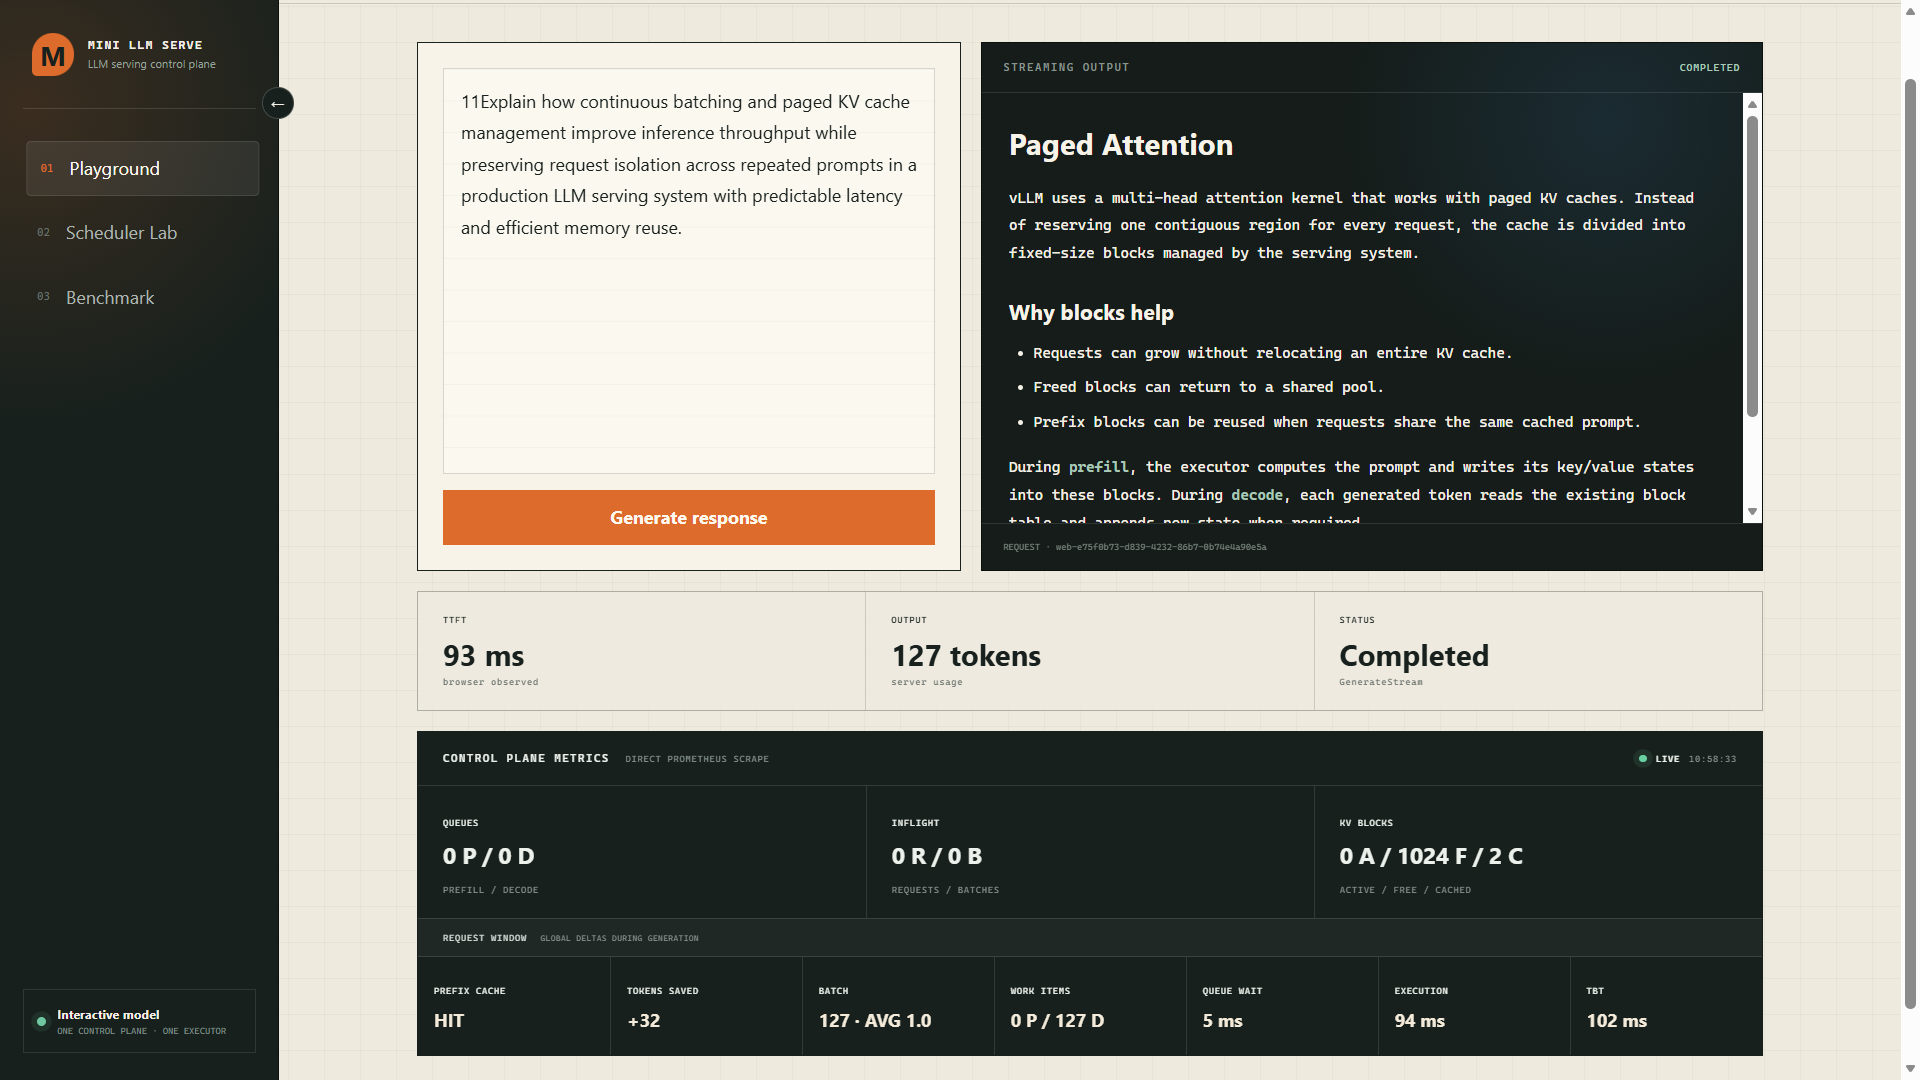
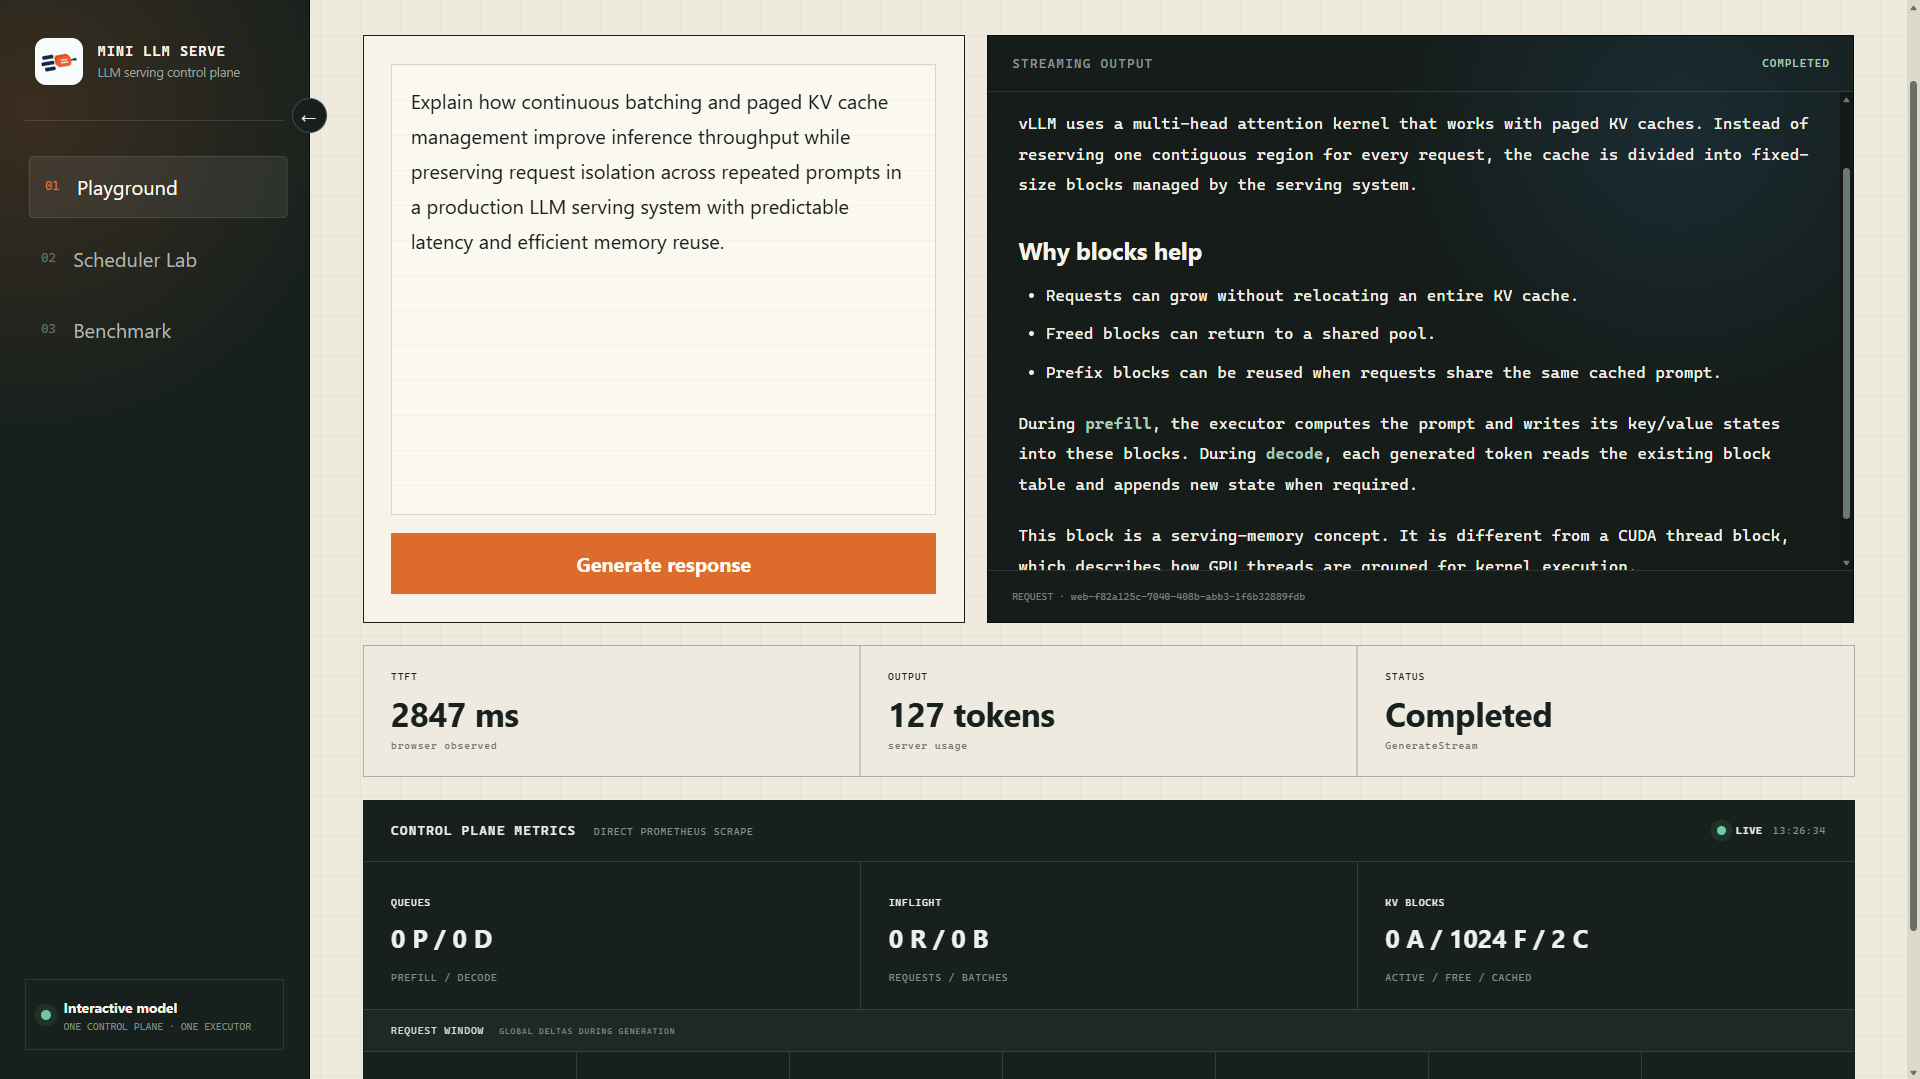
feat(stage4): update readme

diff --git a/web/src/styles/global.css b/web/src/styles/global.css
@@ -28,6 +28,29 @@
   box-sizing: border-box;
 }
 
+html {
+  scrollbar-color: rgba(61, 72, 67, 0.72) #ddd8ca;
+  scrollbar-width: thin;
+}
+
+html::-webkit-scrollbar {
+  width: 10px;
+}
+
+html::-webkit-scrollbar-track {
+  background: #ddd8ca;
+}
+
+html::-webkit-scrollbar-thumb {
+  background: rgba(61, 72, 67, 0.72);
+  border: 2px solid #ddd8ca;
+  border-radius: 999px;
+}
+
+html::-webkit-scrollbar-thumb:hover {
+  background: #28332f;
+}
+
 body {
   margin: 0;
   min-width: 320px;
@@ -148,14 +171,8 @@ button {
 .brand-mark {
   width: 38px;
   height: 38px;
-  display: grid;
-  place-items: center;
-  font-family: var(--font-display);
-  font-size: 24px;
-  font-weight: 650;
-  color: #17201d;
-  background: var(--orange);
-  border-radius: 50% 50% 50% 12%;
+  flex: 0 0 auto;
+  border-radius: 9px;
 }
 
 .brand strong,
@@ -647,6 +664,26 @@ h2 {
   padding: 28px 24px;
   overflow-y: auto;
   overflow-wrap: anywhere;
+  scrollbar-color: #6c7973 #121916;
+  scrollbar-width: thin;
+}
+
+.response-body::-webkit-scrollbar {
+  width: 9px;
+}
+
+.response-body::-webkit-scrollbar-track {
+  background: #121916;
+}
+
+.response-body::-webkit-scrollbar-thumb {
+  background: #6c7973;
+  border: 2px solid #121916;
+  border-radius: 999px;
+}
+
+.response-body::-webkit-scrollbar-thumb:hover {
+  background: #9bad9f;
 }
 
 .response-body {
@@ -718,6 +755,8 @@ h2 {
   overflow-x: auto;
   background: #0d1311;
   border: 1px solid rgba(255, 255, 255, 0.1);
+  scrollbar-color: #6c7973 #0d1311;
+  scrollbar-width: thin;
 }
 
 .response-body pre code {

diff --git a/web/src/app/App.tsx b/web/src/app/App.tsx
@@ -20,7 +20,12 @@ export function App() {
     >
       <aside className="sidebar">
         <div className="brand">
-          <span className="brand-mark">M</span>
+          <img
+            className="brand-mark"
+            src="/favicon.svg"
+            alt=""
+            aria-hidden="true"
+          />
           <div className="brand-copy">
             <strong>MINI LLM SERVE</strong>
             <small>{text.lab}</small>

diff --git a/web/index.html b/web/index.html
@@ -7,6 +7,8 @@
       name="description"
       content="Mini LLM Serve request playground, scheduler laboratory, and benchmark report"
     />
+    <meta name="theme-color" content="#17201d" />
+    <link rel="icon" type="image/svg+xml" href="/favicon.svg" />
     <title>Mini LLM Serve</title>
   </head>
   <body>